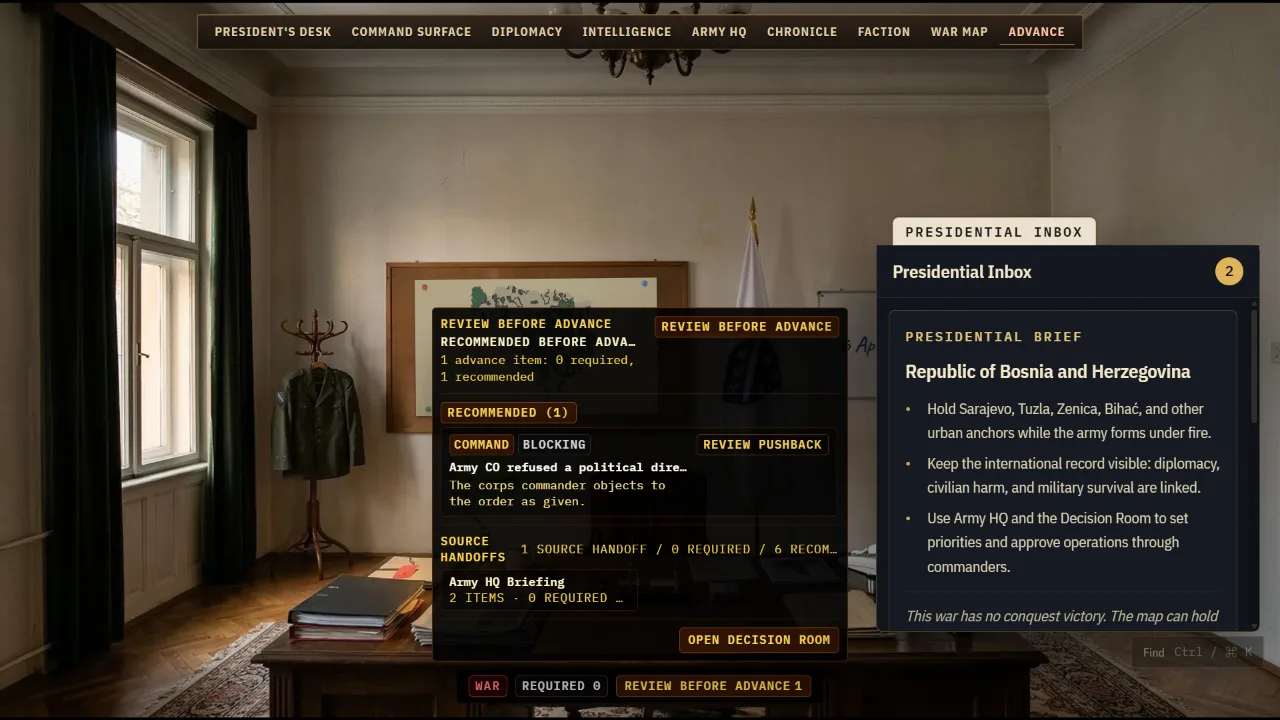
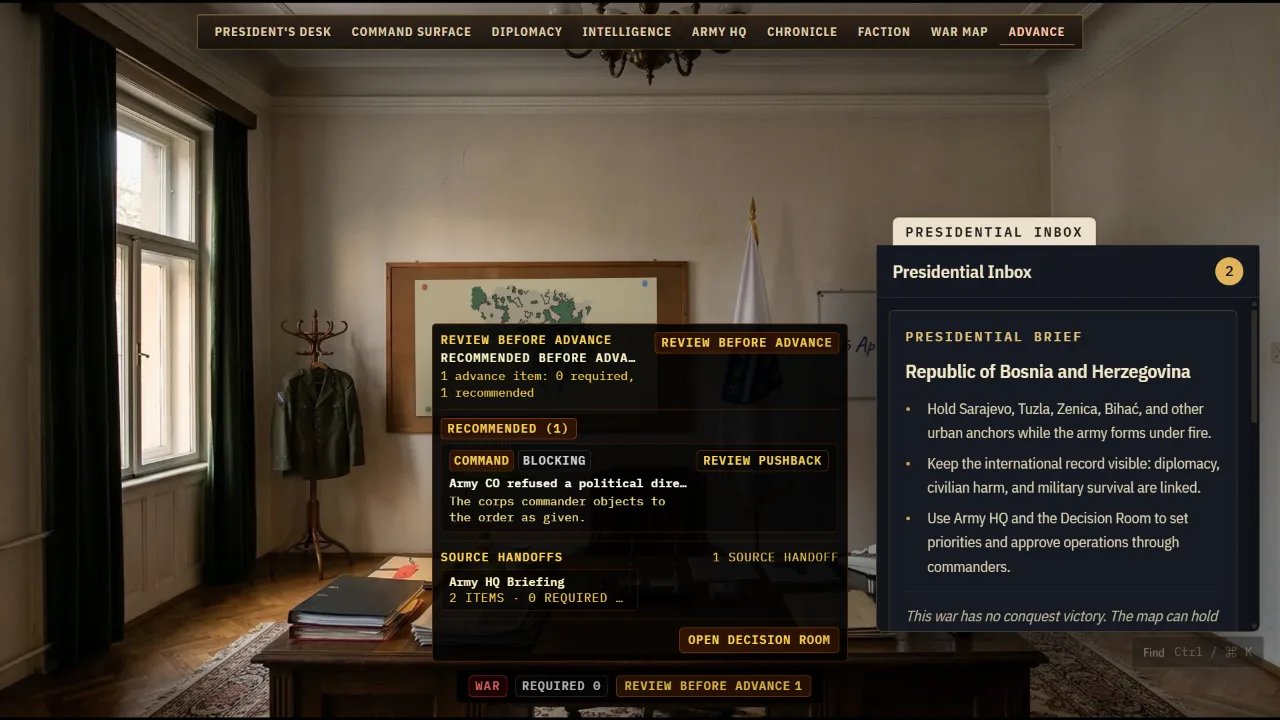
L1: source-handoff header shows only the handoff count; recaptured evidence

Changed region(s): [[0.3125, 0.4278, 0.6875, 0.7944], [0.5312, 0.7333, 0.6562, 0.7944], [0.5312, 0.6111, 0.6562, 0.6722]]

diff --git a/tests/ui/warroom_priority_docket.test.ts b/tests/ui/warroom_priority_docket.test.ts
@@ -177,7 +177,7 @@ describe('buildWarroomPriorityDocketView', () => {
     expect(first.sourceHandoffs.map((handoff) => handoff.id)).toEqual([
       'army-hq-briefing',
     ]);
-    expect(first.sourceHandoffSummary).toBe('1 source handoff / 0 required / 5 recommended / 1 monitor / 3 record');
+    expect(first.sourceHandoffSummary).toBe('1 source handoff');
     expect(first.openBoardLabel).toBe('Open Decision Room');
   });
 
@@ -197,7 +197,7 @@ describe('buildWarroomPriorityDocketView', () => {
     expect(view.summary).toBe('0 advance items: 0 required, 0 recommended');
     expect(view.items).toEqual([]);
     expect(view.sourceHandoffs).toEqual([]);
-    expect(view.sourceHandoffSummary).toBe('0 source handoffs / 0 required / 4 recommended / 0 monitor / 0 record');
+    expect(view.sourceHandoffSummary).toBe('0 source handoffs');
     expect(view.canOpenBoard).toBe(true);
   });
 
@@ -232,7 +232,7 @@ describe('buildWarroomPriorityDocketView', () => {
     expect(view.headline).toBe('No state loaded');
     expect(view.items).toEqual([]);
     expect(view.sourceHandoffs).toEqual([]);
-    expect(view.sourceHandoffSummary).toBe('0 source handoffs / 0 required / 0 recommended / 0 monitor / 0 record');
+    expect(view.sourceHandoffSummary).toBe('0 source handoffs');
     expect(view.canOpenBoard).toBe(false);
   });
 
@@ -260,7 +260,7 @@ describe('buildWarroomPriorityDocketView', () => {
     setLocale('en');
 
     expect(view.summary).toBe('1 stavka za napredovanje: 0 obavezno, 1 preporučeno');
-    expect(view.sourceHandoffSummary).toBe('1 izvorni prijenos / 0 obavezno / 5 preporučeno / 1 praćenje / 3 zapis');
+    expect(view.sourceHandoffSummary).toBe('1 izvorni prijenos');
     expect(view.openBoardLabel).toBe('Otvori sobu odluka');
     expect(view.statusLabel).toBe('Pregled prije napredovanja');
     expect(view.summary + view.sourceHandoffSummary + view.openBoardLabel).not.toContain('advance items');

diff --git a/src/ui/map/data/warroomPriorityDocket.ts b/src/ui/map/data/warroomPriorityDocket.ts
@@ -63,17 +63,11 @@ function formatSummary(items: readonly WarroomPriorityDocketItem[]): string {
   });
 }
 
-function formatSourceHandoffSummary(
-  sourceHandoffs: WarroomPriorityDocketSourceHandoff[],
-  metrics: PreAdvanceCommandReviewMetrics,
-): string {
-  return t('warroom.docket.sourceHandoffSummary', {
-    sourceHandoffCount: sourceHandoffs.length,
-    sourceHandoffLabel: t(sourceHandoffs.length === 1 ? 'warroom.docket.sourceHandoff.one' : 'warroom.docket.sourceHandoff.many'),
-    required: metrics.priorityCounts.required,
-    recommended: metrics.priorityCounts.recommended,
-    monitor: metrics.priorityCounts.monitor,
-    record: metrics.priorityCounts.record,
+/** Just the number of handoffs: the band totals it used to repeat disagreed with the chip. */
+function formatSourceHandoffSummary(sourceHandoffs: WarroomPriorityDocketSourceHandoff[]): string {
+  return t('review.docket.handoffSummary', {
+    count: sourceHandoffs.length,
+    handoffLabel: t(sourceHandoffs.length === 1 ? 'warroom.docket.sourceHandoff.one' : 'warroom.docket.sourceHandoff.many'),
   });
 }
 
@@ -98,7 +92,7 @@ export function buildWarroomPriorityDocketView(input: WarroomPriorityDocketInput
     tone: docketTone(review.status),
     headline: review.headline,
     summary: formatSummary(review.items),
-    sourceHandoffSummary: formatSourceHandoffSummary(review.sourceHandoffs, review.metrics),
+    sourceHandoffSummary: formatSourceHandoffSummary(review.sourceHandoffs),
     canOpenBoard: review.canReviewPriorities,
     openBoardLabel: t('warroom.docket.openDecisionRoom'),
     items: review.items.slice(0, safeLimit),

diff --git a/src/ui/map/i18n/messages.bcs.ts b/src/ui/map/i18n/messages.bcs.ts
@@ -830,6 +830,7 @@ export const bcsMessages: Partial<Record<MessageKey, string>> = {
     'review.tier.required': 'Obavezno ({count})',
     'review.tier.recommended': 'Preporučeno ({count})',
     'review.docket.summary': '{count} {itemLabel}: {required} obavezno, {recommended} preporučeno',
+    'review.docket.handoffSummary': '{count} {handoffLabel}',
     'review.whyNow.required': 'Obavezno: napredovanje ostaje blokirano dok ne odgovorite.',
     'review.whyNow.stance': 'Nastavlja se ako ne djelujete.',
     'review.whyNow.default': 'Vrijedi pogledati prije napredovanja.',

diff --git a/src/ui/map/i18n/messages.en.ts b/src/ui/map/i18n/messages.en.ts
@@ -830,6 +830,7 @@ export const enMessages = {
     'review.tier.required': 'Required ({count})',
     'review.tier.recommended': 'Recommended ({count})',
     'review.docket.summary': '{count} {itemLabel}: {required} required, {recommended} recommended',
+    'review.docket.handoffSummary': '{count} {handoffLabel}',
     'review.whyNow.required': 'Required: Advance stays blocked until you answer.',
     'review.whyNow.stance': 'Proceeds unless you act.',
     'review.whyNow.default': 'Worth a look before advancing.',
